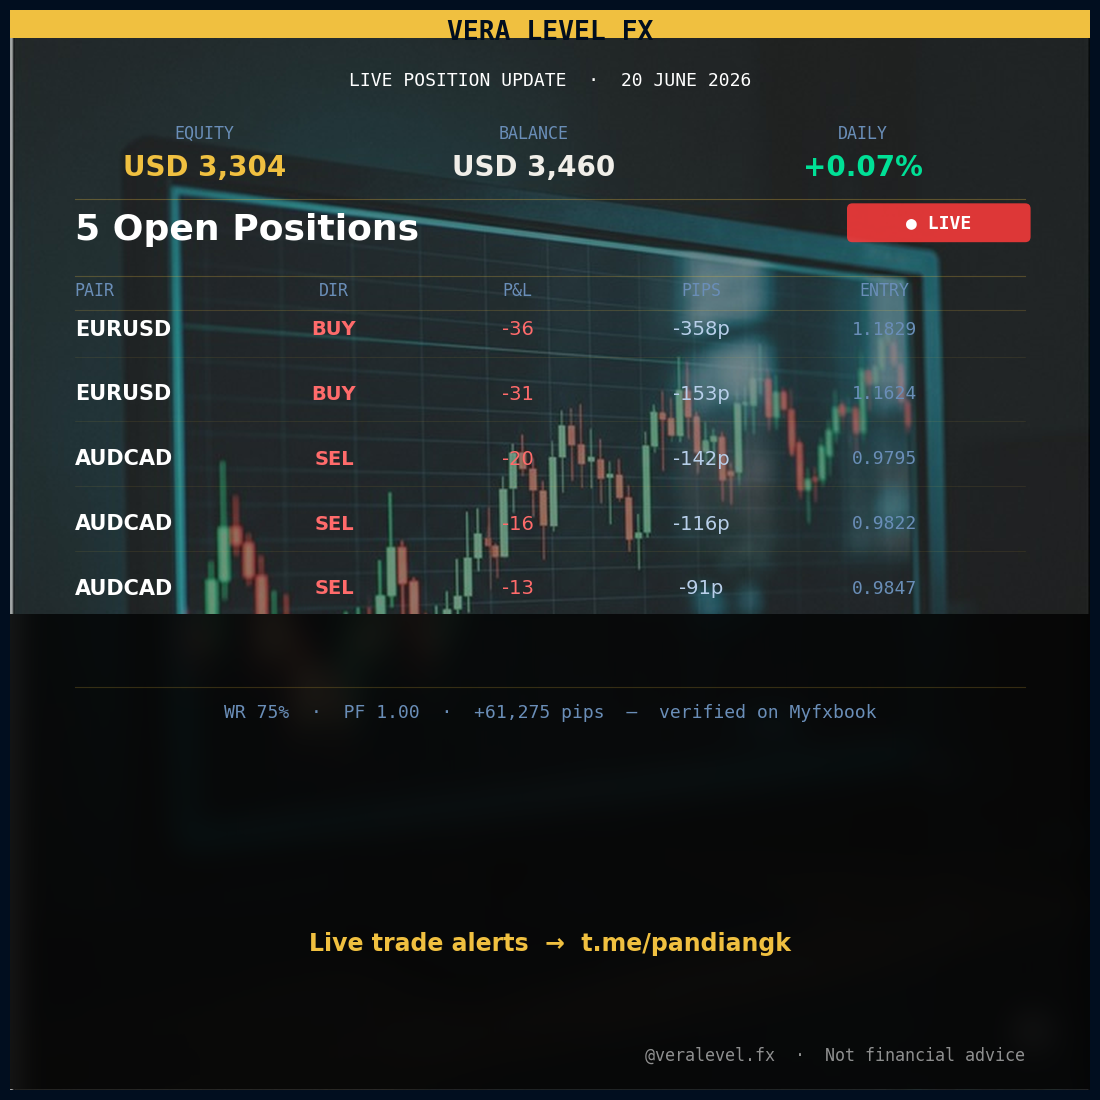
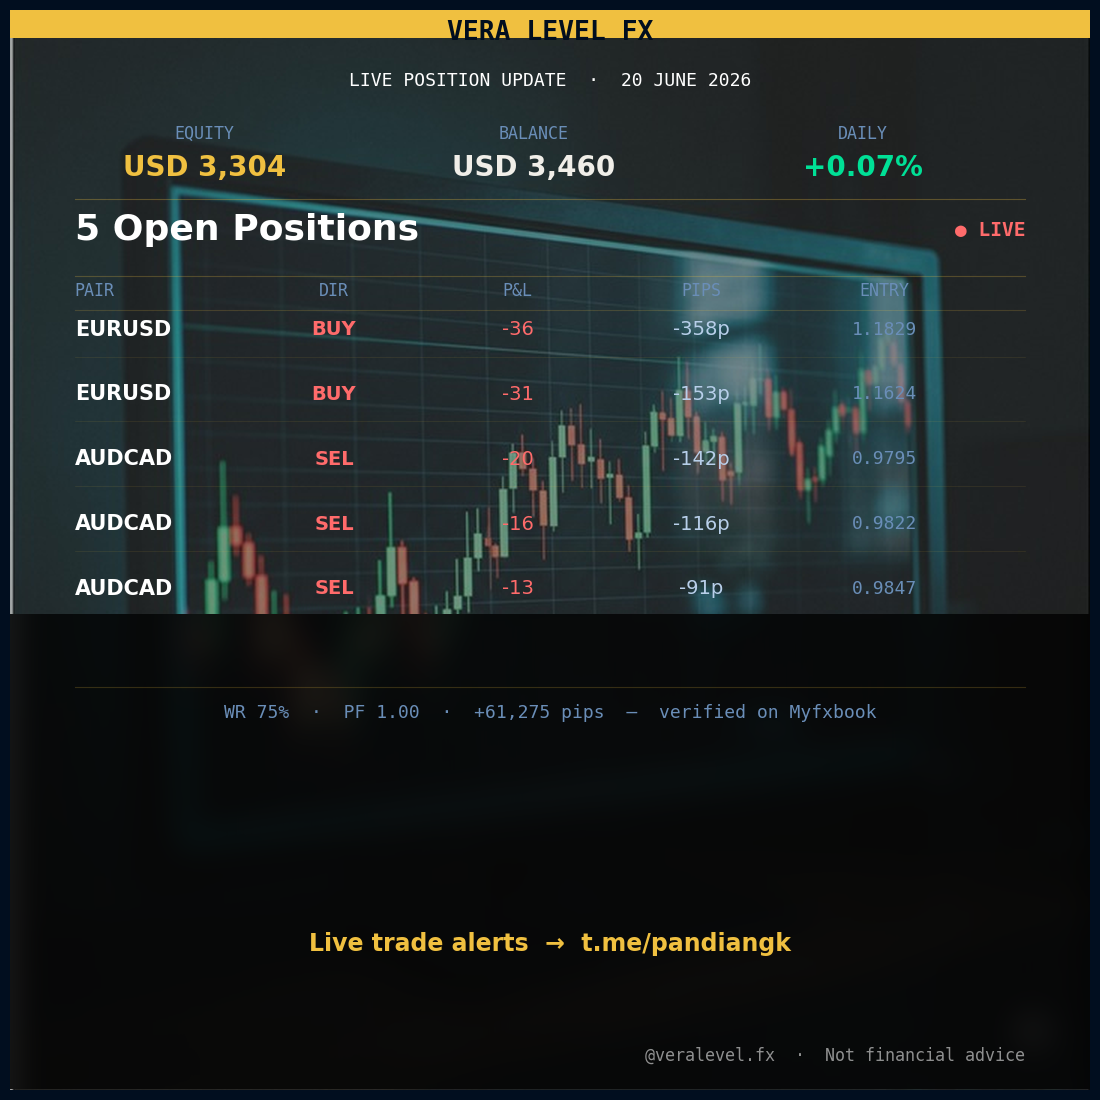
style: remove all FancyBboxPatch boxes from edu/daily/winrate/setup posts
All 4 post types now match the weekly card aesthetic: text directly on
AI background, no bordered cards or pill shapes. Replaced glass cards,
tag pills, stat pills, LIVE badge, and verified badge boxes with plain
colored text and thin gold separator lines. Risk post title wraps to
2 lines to prevent right-edge clipping.

Changed region(s): [[0.7727, 0.1855, 0.9582, 0.2473]]

diff --git a/instagram/generate_edu.py b/instagram/generate_edu.py
@@ -198,55 +198,92 @@ def _wrap(text: str, width: int) -> list[str]:
 # ═══════════════════════════════════════════════════════════════════
 
 def make_risk_post(content: dict):
-    fig, ax = _base_fig('risk')
-    _brand_header(ax)
+    from instagram.composer import load_background, gradient_panel
 
-    # Huge watermark number
-    ax.text(0.92, 0.55, content['rule_num'],
-            fontsize=260, color='white', alpha=0.03,
-            ha='right', va='center', transform=ax.transAxes,
-            fontweight='bold', zorder=3)
+    bg = gradient_panel(load_background(ASSETS_DIR / 'bg-daily.jpg'), height_frac=0.62)
 
-    # Section label + tag pill
-    ax.text(0.06, 0.876, '⚠  RISK MANAGEMENT RULE ' + content['rule_num'],
-            fontsize=22, color=RED, fontweight='bold', va='center',
+    fig = plt.figure(figsize=SIZE, facecolor=NAVY, dpi=DPI)
+    ax = fig.add_axes([0, 0, 1, 1])
+    ax.set_xlim(0, 1); ax.set_ylim(0, 1); ax.axis('off')
+    ax.imshow(bg, extent=[0, 1, 0, 1], aspect='auto', zorder=0)
+
+    # Gold top bar
+    ax.add_patch(patches.Rectangle(
+        (0, 0.974), 1, 0.026, facecolor=GOLD, transform=ax.transAxes, zorder=5
+    ))
+
+    # Brand
+    ax.text(0.06, 0.946, 'VERA LEVEL FX',
+            fontsize=20, fontweight='bold', color=GOLD,
+            ha='left', va='center', transform=ax.transAxes, zorder=6)
+    ax.add_patch(patches.Circle((0.075, 0.923), 0.007,
+        facecolor=GREEN, transform=ax.transAxes, zorder=6))
+    ax.text(0.090, 0.923, 'IC Markets Verified  ·  ASIC Regulated',
+            fontsize=14, color=GOLD, ha='left', va='center',
+            transform=ax.transAxes, zorder=6)
+
+    # Section label + tag (plain text, no box)
+    ax.text(0.06, 0.876, 'RISK MANAGEMENT RULE ' + content['rule_num'],
+            fontsize=16, color=RED, fontweight='bold', va='center',
             transform=ax.transAxes, fontfamily='monospace', zorder=5)
-    _pill(ax, 0.71, 0.856, 0.23, 0.038, content['tag'], RED)
+    ax.text(0.94, 0.876, content['tag'],
+            fontsize=16, color=RED, fontweight='bold', va='center', ha='right',
+            transform=ax.transAxes, fontfamily='monospace', zorder=5)
 
-    _hline(ax, 0.848, alpha=0.35)
+    _hline(ax, 0.858, alpha=0.30)
 
-    # Rule title
-    ax.text(0.06, 0.830, content['title'],
-            fontsize=58, fontweight='black', color=WHITE,
-            va='top', transform=ax.transAxes, zorder=5,
-            linespacing=1.05)
+    # Rule title — wrap to 2 lines if long so nothing clips at right edge
+    title_lines = _wrap(content['title'], 16)
+    for ti, tl in enumerate(title_lines[:2]):
+        ax.text(0.06, 0.840 - ti * 0.072, tl,
+                fontsize=56, fontweight='black', color=WHITE,
+                va='top', transform=ax.transAxes, zorder=5, clip_on=True)
 
-    _hline(ax, 0.710, alpha=0.25, color=WHITE)
+    _hline(ax, 0.720, alpha=0.22, color=WHITE)
 
-    # Body text — wrap at 40 chars, max 4 lines
+    # Body text
     body_lines = _wrap(content['body'], 40)
     for i, line in enumerate(body_lines[:4]):
-        ax.text(0.06, 0.695 - i * 0.072, line,
+        ax.text(0.06, 0.705 - i * 0.072, line,
                 fontsize=32, color=CREAM, va='top',
-                transform=ax.transAxes, zorder=5, linespacing=1.5)
+                transform=ax.transAxes, zorder=5, linespacing=1.5, clip_on=True)
 
-    # Stat cards
-    _glass_card(ax, 0.06, 0.305, 0.415, 0.140,
-                'ACCOUNT SIZE', f'${content["example_account"]:,}',
-                GOLD, 'example capital')
-    _glass_card(ax, 0.525, 0.305, 0.415, 0.140,
-                'MAX RISK / TRADE', f'${content["example_risk"]:,}',
-                RED, f'RR → {content["example_rr"]}')
+    # Stats — plain text, no boxes
+    _hline(ax, 0.315, alpha=0.25)
+    ax.text(0.06, 0.292, 'ACCOUNT SIZE',
+            fontsize=14, color=DIM, va='center',
+            transform=ax.transAxes, fontfamily='monospace', zorder=5)
+    ax.text(0.06, 0.258, f'${content["example_account"]:,}',
+            fontsize=36, fontweight='bold', color=GOLD, va='center',
+            transform=ax.transAxes, zorder=5)
 
-    _hline(ax, 0.295, alpha=0.3)
+    ax.text(0.52, 0.292, 'MAX RISK / TRADE',
+            fontsize=14, color=DIM, va='center',
+            transform=ax.transAxes, fontfamily='monospace', zorder=5)
+    ax.text(0.52, 0.258, f'${content["example_risk"]:,}',
+            fontsize=36, fontweight='bold', color=RED, va='center',
+            transform=ax.transAxes, zorder=5)
 
-    # CTA
-    ax.text(0.06, 0.242,
-            os.environ.get('BRAND_SIGNAL_CTA', '>>  join our live signals channel'),
-            fontsize=26, color=MUTED, va='center',
+    ax.text(0.06, 0.215, f'RR  →  {content["example_rr"]}',
+            fontsize=18, color=MUTED, va='center',
             transform=ax.transAxes, fontfamily='monospace', zorder=5)
 
-    _footer(ax)
+    # CTA
+    _hline(ax, 0.196, alpha=0.25)
+    ax.text(0.06, 0.162,
+            os.environ.get('BRAND_SIGNAL_CTA', '>>  join our live signals channel'),
+            fontsize=20, color=MUTED, va='center',
+            transform=ax.transAxes, fontfamily='monospace', zorder=5)
+
+    # Footer
+    _hline(ax, 0.098, alpha=0.3)
+    ax.text(0.94, 0.065, '@veralevel.fx  ·  VERA LEVEL FX',
+            fontsize=15, color=GOLD, va='center', ha='right',
+            transform=ax.transAxes, fontweight='bold', zorder=5)
+    ax.text(0.94, 0.030, 'Not financial advice  ·  IC MARKETS · ASIC',
+            fontsize=12, color=DIM, ha='right', va='center',
+            transform=ax.transAxes, fontfamily='monospace', zorder=5)
+
     return fig
 
 
@@ -315,22 +352,20 @@ def make_pairs_post(content: dict):
 
     for i, (label, value, color) in enumerate(stats):
         cx, cy = xs[i % 2], ys[i // 2]
-        ax.add_patch(patches.FancyBboxPatch(
-            (cx, cy), cw, ch, boxstyle='round,pad=0.006',
-            facecolor=(0.02, 0.06, 0.14, 0.80),
-            edgecolor=color, linewidth=1.0,
-            transform=ax.transAxes, zorder=5
-        ))
-        ax.text(cx + 0.014, cy + ch - 0.018, label,
-                fontsize=13, color=MUTED, fontweight='bold', va='top',
+        # Label
+        ax.text(cx, cy + ch - 0.004, label,
+                fontsize=13, color=DIM, fontweight='bold', va='top',
                 transform=ax.transAxes, fontfamily='monospace', zorder=6)
-        # wrap long values (e.g. MY EDGE) so they don't overflow the card
+        # Value (wrapped, no box)
         val_lines = _wrap(str(value), 38)[:2]
         line_gap = 0.028
         for k, vl in enumerate(val_lines):
-            ax.text(cx + 0.014, cy + 0.010 + (len(val_lines) - 1 - k) * line_gap, vl,
-                    fontsize=14, color=color, fontweight='bold', va='bottom',
+            ax.text(cx, cy + ch * 0.52 - k * line_gap, vl,
+                    fontsize=14, color=color, fontweight='bold', va='top',
                     transform=ax.transAxes, zorder=6, clip_on=True)
+        # Thin separator line below each cell
+        ax.plot([cx, cx + cw], [cy, cy], color=color, linewidth=0.5, alpha=0.20,
+                transform=ax.transAxes, zorder=5)
 
     # CTA
     cta_y = ys[1] - 0.055
@@ -381,17 +416,11 @@ def make_setup_post(content: dict):
             ha='center', va='center',
             transform=ax.transAxes, fontfamily='monospace', zorder=6)
 
-    # Direction pill (on photo area, just above the split)
-    ax.add_patch(patches.FancyBboxPatch(
-        (0.06, split_y + 0.010), 0.28, 0.034, boxstyle='round,pad=0.005',
-        facecolor=(0.0, 0.88, 0.59, 0.15) if direction == 'LONG' else (1.0, 0.42, 0.42, 0.15),
-        edgecolor=dir_color, linewidth=1.2,
-        transform=ax.transAxes, zorder=6
-    ))
-    ax.text(0.20, split_y + 0.027, f'{dir_icon}  {direction} SETUP',
-            fontsize=16, fontweight='bold', color=dir_color,
-            ha='center', va='center',
-            transform=ax.transAxes, fontfamily='monospace', zorder=7)
+    # Direction label (no box)
+    ax.text(0.06, split_y + 0.027, f'{dir_icon}  {direction} SETUP',
+            fontsize=18, fontweight='bold', color=dir_color,
+            ha='left', va='center',
+            transform=ax.transAxes, fontfamily='monospace', zorder=6)
 
     # Pair + setup type label
     ax.text(0.40, split_y + 0.028, f'{pair}  ·  {content.get("setup_type", "")}',
@@ -435,15 +464,17 @@ def make_setup_post(content: dict):
                     fontsize=18, color=MUTED, va='top',
                     transform=ax.transAxes, zorder=6, linespacing=1.3)
 
-    # Bottom pills
+    # Bottom info (no boxes)
     _hline(ax, panel_bottom + 0.005, alpha=0.25)
-    pill_items = [
-        ('RISK 1%',     RED,       0.06),
-        (f'RR {rr}',   dir_color, 0.24),
-        ('IC MARKETS',  GOLD,      0.42),
-    ]
-    for label, color, px in pill_items:
-        _pill(ax, px, 0.058, 0.160, 0.040, label, color)
+    ax.text(0.06, 0.078, 'RISK 1%',
+            fontsize=16, fontweight='bold', color=RED,
+            va='center', transform=ax.transAxes, fontfamily='monospace', zorder=5)
+    ax.text(0.26, 0.078, f'RR {rr}',
+            fontsize=16, fontweight='bold', color=dir_color,
+            va='center', transform=ax.transAxes, fontfamily='monospace', zorder=5)
+    ax.text(0.42, 0.078, 'IC MARKETS',
+            fontsize=16, fontweight='bold', color=GOLD,
+            va='center', transform=ax.transAxes, fontfamily='monospace', zorder=5)
 
     # CTA
     ax.text(0.66, 0.078, 'Alerts → t.me/pandiangk',

diff --git a/instagram/generate.py b/instagram/generate.py
@@ -313,29 +313,18 @@ def make_winrate_card(data):
     ax.set_xlim(0, 1); ax.set_ylim(0, 1); ax.axis('off')
     ax.imshow(bg, extent=[0, 1, 0, 1], aspect='auto', zorder=0)
 
-    # IC Markets Verified badge (top-centre)
-    ax.add_patch(patches.FancyBboxPatch(
-        (0.22, 0.915), 0.56, 0.034, boxstyle='round,pad=0.010',
-        facecolor=(240/255, 192/255, 64/255, 0.10),
-        edgecolor=(240/255, 192/255, 64/255, 0.35), linewidth=1.0,
-        transform=ax.transAxes, zorder=5
-    ))
+    # IC Markets Verified (no box)
     ax.add_patch(patches.Circle(
-        (0.285, 0.932), 0.008,
+        (0.275, 0.932), 0.008,
         facecolor=GREEN, transform=ax.transAxes, zorder=6
     ))
     ax.text(0.5, 0.932, 'IC Markets Verified  ·  ASIC Regulated',
             fontsize=16, color=GOLD, fontweight='bold',
             ha='center', va='center', transform=ax.transAxes, zorder=7)
 
-    # Post type label (gold pill)
-    ax.add_patch(patches.FancyBboxPatch(
-        (0.32, 0.858), 0.36, 0.034, boxstyle='round,pad=0.010',
-        facecolor=(240/255, 192/255, 64/255, 0.85), edgecolor='none',
-        transform=ax.transAxes, zorder=5
-    ))
+    # Post type label (no box)
     ax.text(0.5, 0.875, 'LIVE TRACK RECORD',
-            fontsize=14, fontweight='black', color=NAVY,
+            fontsize=14, fontweight='black', color=GOLD,
             ha='center', va='center',
             transform=ax.transAxes, fontfamily='monospace', zorder=6)
 
@@ -347,23 +336,19 @@ def make_winrate_card(data):
             fontsize=20, color=MUTED, ha='center', va='center',
             transform=ax.transAxes, fontfamily='monospace', zorder=6)
 
-    # Pill stats row
-    pills = [
-        (f'${balance:,.0f} Balance', 0.14),
-        (f'{gain_sign}{gain:.1f}% Gain', 0.40),
-        (f'+{pips:,} Pips', 0.66),
+    # Stats row (no boxes — plain labeled text like weekly card)
+    stats_row = [
+        (f'${balance:,.0f}',        'BALANCE', GOLD,                        0.20),
+        (f'{gain_sign}{gain:.1f}%', 'GAIN',    GREEN if gain >= 0 else RED, 0.50),
+        (f'+{pips:,}',              'PIPS',    WHITE,                       0.78),
     ]
-    pill_y = 0.515
-    pill_w = 0.22
-    for label, px in pills:
-        ax.add_patch(patches.FancyBboxPatch(
-            (px, pill_y), pill_w, 0.034, boxstyle='round,pad=0.008',
-            facecolor=(1, 1, 1, 0.08), edgecolor=(1, 1, 1, 0.18), linewidth=0.8,
-            transform=ax.transAxes, zorder=5
-        ))
-        ax.text(px + pill_w / 2, pill_y + 0.017, label,
-                fontsize=15, color=WHITE, ha='center', va='center',
-                transform=ax.transAxes, zorder=6)
+    for val, lbl, color, px in stats_row:
+        ax.text(px, 0.548, val,
+                fontsize=26, fontweight='black', color=color,
+                ha='center', va='center', transform=ax.transAxes, zorder=6)
+        ax.text(px, 0.514, lbl,
+                fontsize=13, color=DIM, ha='center', va='center',
+                transform=ax.transAxes, fontfamily='monospace', zorder=6)
 
     # Profit factor
     ax.text(0.5, 0.462,

diff --git a/instagram/generate_status.py b/instagram/generate_status.py
@@ -139,16 +139,11 @@ def make_daily_card(data: dict):
     ax.plot([0.06, 0.94], [0.825, 0.825], color=GOLD, linewidth=0.8, alpha=0.3,
             transform=ax.transAxes, zorder=6)
 
-    # LIVE badge
-    ax.add_patch(patches.FancyBboxPatch(
-        (0.78, 0.790), 0.16, 0.026, boxstyle='round,pad=0.005',
-        facecolor=(1.0, 0.23, 0.23, 0.85), edgecolor='none',
-        transform=ax.transAxes, zorder=6
-    ))
-    ax.text(0.86, 0.803, '● LIVE',
-            fontsize=13, fontweight='bold', color=WHITE,
-            ha='center', va='center',
-            transform=ax.transAxes, fontfamily='monospace', zorder=7)
+    # LIVE indicator (no box)
+    ax.text(0.94, 0.796, '● LIVE',
+            fontsize=14, fontweight='bold', color=RED,
+            ha='right', va='center',
+            transform=ax.transAxes, fontfamily='monospace', zorder=6)
 
     # Open positions header
     n_open = len(rows)
